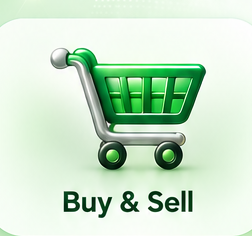
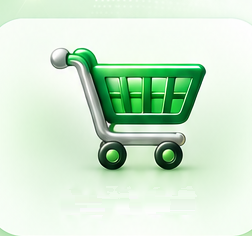
Render home tile labels as translatable HTML text.
The approved tile art no longer carries the visible service names. Each of the 15 links shows one English HTML label that the existing translator can replace, and right-to-left languages reverse the grid without a second copy of the label.

Changed region(s): [[0.5833, 0.8008, 0.7778, 0.9195], [0.25, 0.8008, 0.4444, 0.9492], [0.4722, 0.8008, 0.5556, 0.9195]]

diff --git a/index.html b/index.html
@@ -218,6 +218,10 @@ h1 {
 
     box-shadow: none;
 
+    position: relative;
+
+    container-type: inline-size;
+
     cursor: pointer;
 
     transition:
@@ -304,15 +308,18 @@ h1 {
         rgba(46,125,50,.15);
 }
 
-.menu-item span {
-    display: block;
-
-    color: #18251c;
-
-    font-size: .72rem;
+.menu-item .tile-label {
+    position: absolute;
+    left: 4%;
+    right: 4%;
+    bottom: 7%;
+    margin: 0;
+    color: #063216;
     font-weight: 800;
-
-    line-height: 1.2;
+    font-size: 8.4cqw;
+    line-height: 1.05;
+    letter-spacing: -0.02em;
+    text-align: center;
 }
 
 .icon-buy,
@@ -771,84 +778,84 @@ h1 {
         aria-label="HAVKAR services"
     >
 
-        <a class="menu-item" href="buy-sell.html" aria-label="Buy and Sell">
+        <a class="menu-item" href="buy-sell.html">
             <img src="assets/home/buy-sell.png" alt="" width="252" height="236">
-            <span class="visually-hidden" data-i18n="buySell">Buy &amp; Sell</span>
+            <span class="tile-label" data-i18n="buySell">Buy &amp; Sell</span>
         </a>
 
-        <a class="menu-item" href="jobs.html" aria-label="Jobs">
+        <a class="menu-item" href="jobs.html">
             <img src="assets/home/jobs.png" alt="" width="248" height="236">
-            <span class="visually-hidden" data-i18n="jobs">Jobs</span>
+            <span class="tile-label" data-i18n="jobs">Jobs</span>
         </a>
 
-        <a class="menu-item" href="services.html" aria-label="Services">
+        <a class="menu-item" href="services.html">
             <img src="assets/home/services.png" alt="" width="268" height="236">
-            <span class="visually-hidden" data-i18n="services">Services</span>
+            <span class="tile-label" data-i18n="services">Services</span>
         </a>
 
-        <a class="menu-item" href="wallet.html" aria-label="Wallet">
+        <a class="menu-item" href="wallet.html">
             <img src="assets/home/wallet.png" alt="" width="252" height="236">
-            <span class="visually-hidden" data-i18n="wallet">Wallet</span>
+            <span class="tile-label" data-i18n="wallet">Wallet</span>
         </a>
 
-        <a class="menu-item" href="tickets.html" aria-label="Tickets">
+        <a class="menu-item" href="tickets.html">
             <img src="assets/home/tickets.png" alt="" width="248" height="236">
-            <span class="visually-hidden" data-i18n="tickets">Tickets</span>
+            <span class="tile-label" data-i18n="tickets">Tickets</span>
         </a>
 
-        <a class="menu-item" href="accommodation.html" aria-label="Accommodation">
+        <a class="menu-item" href="accommodation.html">
             <img src="assets/home/accommodation.png" alt="" width="268" height="236">
-            <span class="visually-hidden" data-i18n="accommodation">Accommodation</span>
+            <span class="tile-label" data-i18n="accommodation">Accommodation</span>
         </a>
 
-        <a class="menu-item" href="ads.html" aria-label="Advertisements">
+        <a class="menu-item" href="ads.html">
             <img src="assets/home/ads.png" alt="" width="252" height="236">
-            <span class="visually-hidden" data-i18n="ads">Ads</span>
+            <span class="tile-label" data-i18n="ads">Ads</span>
         </a>
 
-        <a class="menu-item" href="delivery.html" aria-label="Delivery">
+        <a class="menu-item" href="delivery.html">
             <img src="assets/home/delivery.png" alt="" width="248" height="236">
-            <span class="visually-hidden" data-i18n="delivery">Delivery</span>
+            <span class="tile-label" data-i18n="delivery">Delivery</span>
         </a>
 
-        <a class="menu-item" href="events.html" aria-label="Events">
+        <a class="menu-item" href="events.html">
             <img src="assets/home/events.png" alt="" width="268" height="236">
-            <span class="visually-hidden" data-i18n="events">Events</span>
+            <span class="tile-label" data-i18n="events">Events</span>
         </a>
 
-        <a class="menu-item" href="chat.html" aria-label="Chat">
+        <a class="menu-item" href="chat.html">
             <img src="assets/home/chat.png" alt="" width="252" height="236">
-            <span class="visually-hidden" data-i18n="chat">Chat</span>
+            <span class="tile-label" data-i18n="chat">Chat</span>
         </a>
 
-        <a class="menu-item" href="language.html" aria-label="Languages">
+        <a class="menu-item" href="language.html">
             <img src="assets/home/languages.png" alt="" width="248" height="236">
-            <span class="visually-hidden language-mark">
+            <span class="visually-hidden language-mark" translate="no" data-i18n-ignore>
                 <span class="language-latin">A</span>
                 <span class="language-kurdish">س</span>
                 <span class="language-east">あ</span>
             </span>
-            <span class="visually-hidden" data-i18n="language">Languages</span>
+            <span class="tile-label" data-i18n="language">Languages</span>
         </a>
 
-        <a class="menu-item" href="reviews.html" aria-label="Reviews">
+        <a class="menu-item" href="reviews.html">
             <img src="assets/home/reviews.png" alt="" width="268" height="236">
-            <span class="visually-hidden" data-i18n="reviews">Reviews</span>
+            <span class="tile-label" data-i18n="reviews">Reviews</span>
         </a>
 
-        <a class="menu-item" href="support.html" aria-label="Support">
+        <a class="menu-item" href="support.html">
             <img src="assets/home/support.png" alt="" width="252" height="236">
-            <span class="visually-hidden" data-i18n="support">Support</span>
+            <span class="tile-label" data-i18n="support">Support</span>
         </a>
 
-        <a class="menu-item" href="havkar-ai.html" aria-label="HAVKAR AI">
+        <a class="menu-item" href="havkar-ai.html">
             <img src="assets/home/havkar-ai.png" alt="" width="248" height="236">
-            <span class="visually-hidden">HAVKAR AI</span>
+            <span class="tile-label">HAVKAR AI</span>
         </a>
 
-        <a class="menu-item" href="about.html" aria-label="About HAVKAR">
+        <a class="menu-item" href="about.html">
             <img src="assets/home/about.png" alt="" width="268" height="236">
-            <span class="visually-hidden" data-i18n="aboutTitle">About HAVKAR</span>
+            <span class="tile-label" data-i18n="aboutTitle">About HAVKAR</span>
         </a>
 
     </nav>
